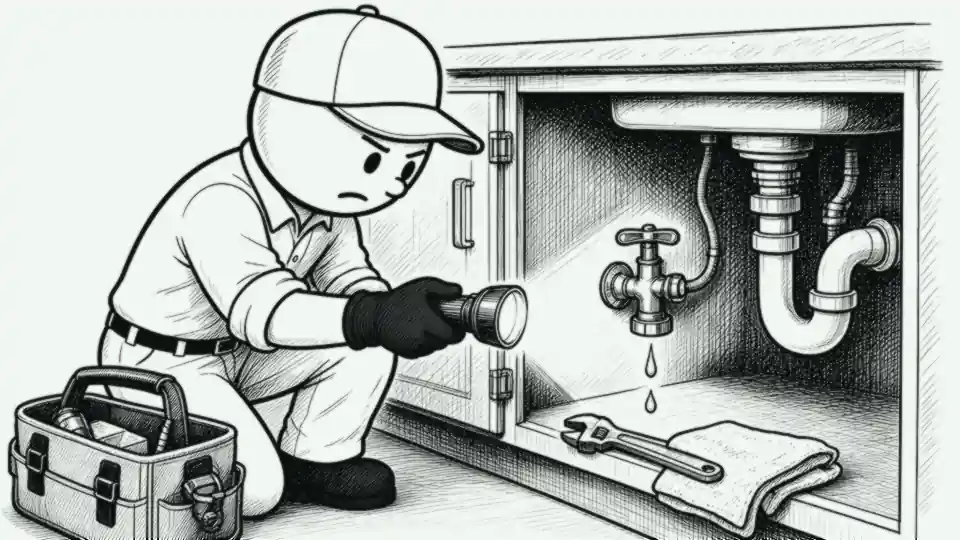
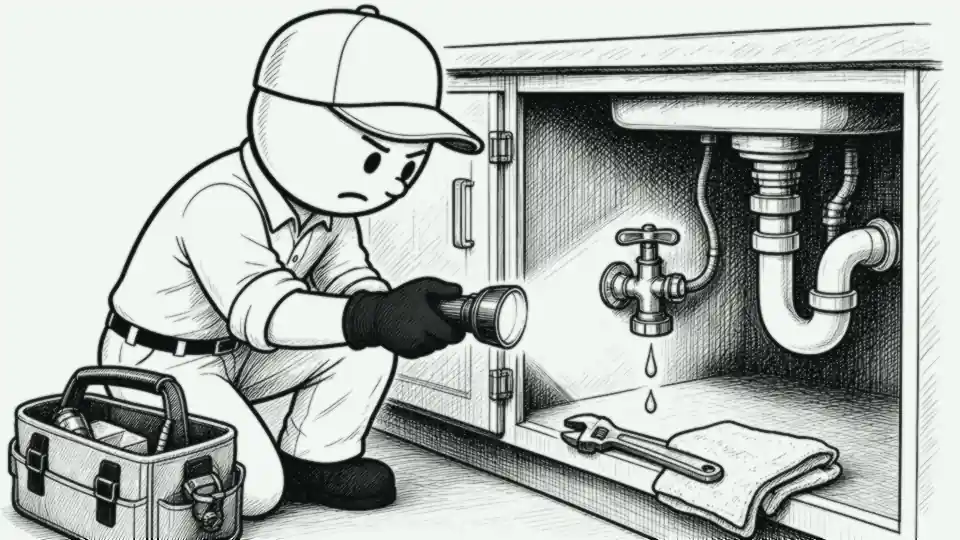
Scenes v7.2: shutoff fix (set-down wrench stays a crescent wrench with a contact shadow)

Changed region(s): [[0.6875, 0.563, 0.7188, 0.5926]]

diff --git a/scenes/shutoff.js b/scenes/shutoff.js
@@ -1,1 +1,1 @@
-(window.EESceneData=window.EESceneData||{})["shutoff"]={"kind":"kf","w":960,"h":540,"title":"Water shut off, leak stopped","alt":"He finds the drip under the sink with a flashlight, sets the light down and closes the angle stop, snugs the compression nut with a wrench, dries it with a rag, tags the valve, and tips his cap.","frames":[{"src":"scenes/kf/shutoff-1.webp?v=7","hold":440,"tw":{"x":-3},"o":[{"x":647,"y":370,"t":"drips"}]},{"src":"scenes/kf/shutoff-2.webp?v=7","hold":440,"tw":{"y":-4},"o":[{"x":562,"y":206,"t":"effort","a":-40}]},{"src":"scenes/kf/shutoff-3.webp?v=7","hold":460,"tw":{"x":4,"ms":240},"o":[{"x":525,"y":244,"t":"effort","a":-50}]},{"src":"scenes/kf/shutoff-4.webp?v=7","hold":440,"tw":{"sy":0.99,"ms":200}},{"src":"scenes/kf/shutoff-5.webp?v=7","hold":460,"tw":{"y":-4},"o":[{"x":559,"y":380,"t":"word","text":"OFF","s":17}]},{"src":"scenes/kf/shutoff-6.webp?v=7","hold":1000,"tw":{"y":6,"r":-0.8,"ms":300},"o":[{"x":559,"y":380,"t":"word","text":"OFF","s":17},{"x":110,"y":100,"t":"check"}]}],"placeholder":false};
+(window.EESceneData=window.EESceneData||{})["shutoff"]={"kind":"kf","w":960,"h":540,"title":"Water shut off, leak stopped","alt":"He finds the drip under the sink with a flashlight, sets the light down and closes the angle stop, snugs the compression nut with a wrench, dries it with a rag, tags the valve, and tips his cap.","frames":[{"src":"scenes/kf/shutoff-1.webp?v=7.2","hold":440,"tw":{"x":-3},"o":[{"x":647,"y":370,"t":"drips"}]},{"src":"scenes/kf/shutoff-2.webp?v=7.2","hold":440,"tw":{"y":-4},"o":[{"x":562,"y":206,"t":"effort","a":-40}]},{"src":"scenes/kf/shutoff-3.webp?v=7.2","hold":460,"tw":{"x":4,"ms":240},"o":[{"x":525,"y":244,"t":"effort","a":-50}]},{"src":"scenes/kf/shutoff-4.webp?v=7.2","hold":440,"tw":{"sy":0.99,"ms":200}},{"src":"scenes/kf/shutoff-5.webp?v=7.2","hold":460,"tw":{"y":-4},"o":[{"x":559,"y":380,"t":"word","text":"OFF","s":17}]},{"src":"scenes/kf/shutoff-6.webp?v=7.2","hold":1000,"tw":{"y":6,"r":-0.8,"ms":300},"o":[{"x":559,"y":380,"t":"word","text":"OFF","s":17},{"x":110,"y":100,"t":"check"}]}],"placeholder":false};
